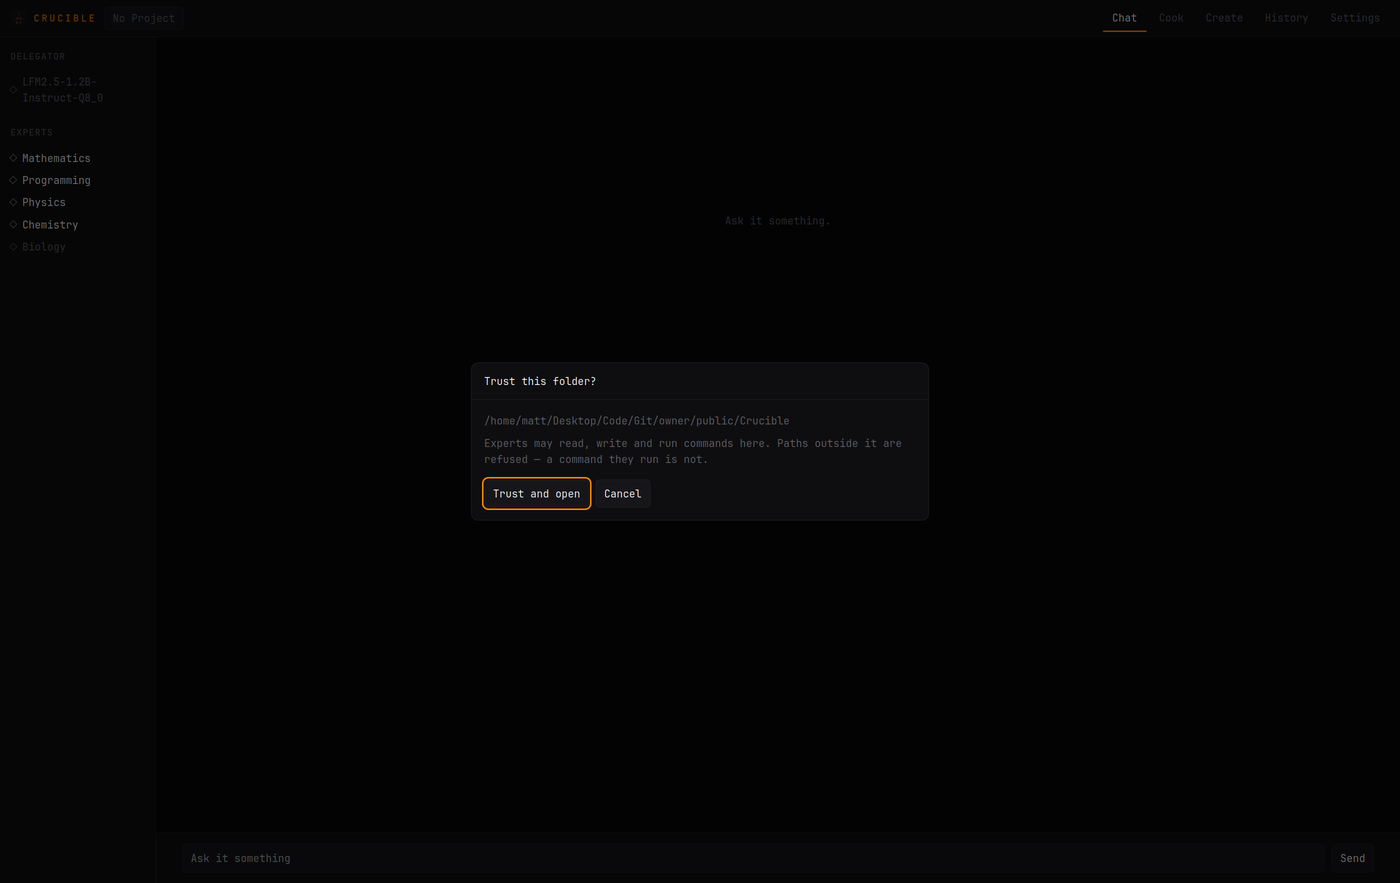
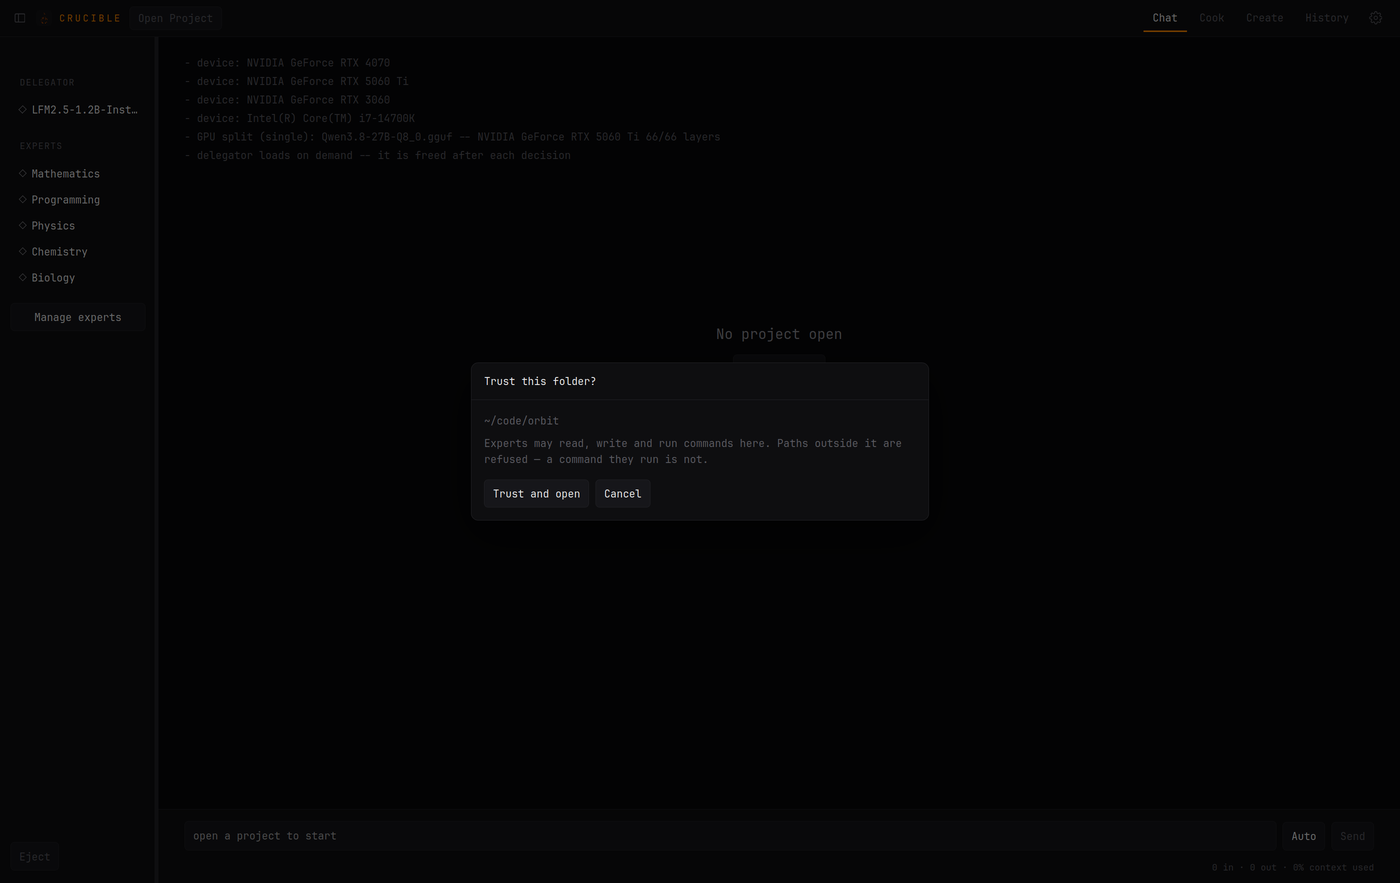
0.7.5: experts that are somewhere else, and a window that keeps drawing
The version, the pictures, and three things found while taking them.

- Version 0.7.5 in the four places it lives; the changelog's Unreleased
  section is 0.7.5's.
- Every README picture retaken from this build.
- Opening a folder that had not been trusted yet showed nothing: the question
  was put up and nothing told the page to draw it. The window now wakes the
  page after every action, as the engine already did for its own changes.
- Closing the window while a model was loading crashed on the way out. A
  redraw still in the webview's queue ran after the window, and the thing
  that queued it, were gone. It checks that the window is still there first.
- Paths that are only for reading -- the folder being trusted, where runtimes
  and the trainer live, a trained file -- are written with ~ for the home
  directory, as the top bar already wrote the project.

Claude-Session: https://claude.ai/code/session_0189RHhjLp4LDKVR4fBaP8J9

diff --git a/ui/create.js b/ui/create.js
@@ -196,7 +196,7 @@ function createDetail(r) {
       ${spec('Export', `${r.format === 'mlx' ? 'MLX' : 'GGUF'} at ${escape(r.quantization)}${
         r.export_bytes ? ', about ' + bytes(r.export_bytes) : ''}`)}
       ${fits}
-      ${r.trained_path ? spec('File', escape(r.trained_path)
+      ${r.trained_path ? spec('File', escape(r.trained_display || r.trained_path)
           + (r.trained_there ? `  ·  ${bytes(r.trained_bytes)}` : '  (not there)'),
           r.trained_there ? '' : 'bad') : ''}
       ${r.started_at ? spec('Started', ago(r.started_at)) : ''}
@@ -584,7 +584,8 @@ actions['recipe-test'] = (e) => guard(async () => {
   const r = recipesList().find((x) => x.id === e.dataset.id);
   if (!r) return;
   const seat = await call('lab.test', { id: r.id });
-  openModal({ kind: 'tester', sticky: true, id: r.id, name: r.name, file: r.trained_path,
+  openModal({ kind: 'tester', sticky: true, id: r.id, name: r.name,
+              file: r.trained_display || r.trained_path,
               seat: seat.seat, from: seat.from,
               // However the window is closed, the seat goes with it.
               onClose: () => { call('lab.test.stop').catch(() => {}); } });

diff --git a/ui/shell.js b/ui/shell.js
@@ -314,9 +314,12 @@ actions['open-project'] = async () => {
 /// here: the page learns of it from the snapshot, and so does not have to
 /// remember that it asked.
 function trustWatch() {
-  const asking = (state.snapshot.project || {}).pending_trust;
+  const project = state.snapshot.project || {};
+  const asking = project.pending_trust;
   const showing = state.modal && state.modal.kind === 'trust';
-  if (asking && !showing) openModal({ kind: 'trust', path: asking, sticky: true });
+  if (asking && !showing) {
+    openModal({ kind: 'trust', path: project.pending_display || asking, sticky: true });
+  }
   else if (!asking && showing) closeModal();
 }
 

diff --git a/src/gui/window.cpp b/src/gui/window.cpp
@@ -250,8 +250,19 @@ int App::run() {
     // everything that is not the window's own thread reaches the screen.
     std::string title = "Crucible";
     Pusher*     pushing = nullptr;
-    Pusher      pusher([this, &view, &surface, &title, &pushing] {
-        view.dispatch([this, &view, &surface, &title, &pushing] {
+    Pusher      pusher([this, &view, &surface, &title, &pushing, gate] {
+        view.dispatch([this, &view, &surface, &title, &pushing, gate] {
+            // The window may have closed since this was queued. A webview
+            // drains its queue on the way out, so this can run after the
+            // window it would draw into is gone -- and after the pusher that
+            // queued it is, too. Closing the window while a model was still
+            // loading did exactly that, and took the process down with it.
+            // The gate is closed the moment the window is, on this thread,
+            // so reading it here needs no lock.
+            if (!gate->open) {
+                return;
+            }
+
             // On the window's thread, which is the session's thread: the one
             // place the jobs a frame loop used to do can still be done.
             housekeeping();
@@ -293,14 +304,21 @@ int App::run() {
     // page's side symmetrical with Python's. The page parses it once more;
     // that is cheap and it keeps one encoder.
     view.bind("rpc",
-              [this, &view, surface, gate](const std::string& id, const std::string& arguments,
-                                           void*) {
+              [this, &view, &pusher, surface, gate](const std::string& id,
+                                                    const std::string& arguments, void*) {
                   const json request = first_argument(arguments);
                   api::Prepared call =
                       surface->prepare(request.is_string() ? request.get<std::string>()
                                                            : std::string());
                   if (!call.background) {
                       view.resolve(id, 0, json(surface->run(call)).dump());
+                      // An action may have changed something only the
+                      // session knows -- a folder now waiting to be trusted,
+                      // a seat taken away -- and nothing else would say so.
+                      // The engine wakes the page when *it* changes; this is
+                      // the same courtesy for everything that is not the
+                      // engine. Several in a row still make one redraw.
+                      pusher.wake();
                       return;
                   }
                   // A lookup: slow, and touching nothing of the session's.
@@ -385,11 +403,12 @@ int App::run() {
 
     // --- closing --------------------------------------------------------------
     //
-    // In this order. The gate first, so no worker speaks to the webview from
-    // here on; then the engine, whose thread calls the wake; and only then is
-    // the wake taken away. The pusher and the webview go as this function
-    // returns, pusher first, which is the order they were declared in
-    // reversed.
+    // In this order. The gate first, so nothing speaks to the webview from
+    // here on -- not a worker with an answer, and not a redraw still sitting
+    // in the webview's own queue; then the engine, whose thread calls the
+    // wake; and only then is the wake taken away. The pusher and the webview
+    // go as this function returns, pusher first, which is the order they were
+    // declared in reversed.
     {
         const std::lock_guard<std::mutex> lock(gate->mutex);
         gate->open = false;

diff --git a/src/api/methods_settings.cpp b/src/api/methods_settings.cpp
@@ -10,6 +10,7 @@
 #include "crucible/lab/recipe.hpp"
 #include "crucible/llm/model_catalog.hpp"
 #include "crucible/runtime/devices.hpp"
+#include "crucible/util/format.hpp"
 
 namespace crucible::api {
 namespace {
@@ -181,12 +182,13 @@ Reply about(const json&, const Scene& scene) {
                         {"command", std::string(update::update_command())},
                         {"checked_at", newer.checked_at},
                         {"checks", scene.config.ui.check_updates}}},
-        {"files", json{{"config",   paths::config_file().string()},
-                       {"data",     paths::data_dir().string()},
-                       {"models",   scene.config.resolved_models_dir().string()},
-                       {"runtimes", paths::runtimes_dir().string()},
-                       {"projects", paths::projects_dir().string()},
-                       {"log",      paths::log_file().string()}}},
+        // For reading, so each is written with ~ for the home directory.
+        {"files", json{{"config",   format::short_path(paths::config_file())},
+                       {"data",     format::short_path(paths::data_dir())},
+                       {"models",   format::short_path(scene.config.resolved_models_dir())},
+                       {"runtimes", format::short_path(paths::runtimes_dir())},
+                       {"projects", format::short_path(paths::projects_dir())},
+                       {"log",      format::short_path(paths::log_file())}}},
         {"trusted", std::move(trusted)},
     });
 }

diff --git a/src/api/methods_install.cpp b/src/api/methods_install.cpp
@@ -18,6 +18,7 @@
 #include "crucible/lab/pyenv.hpp"
 #include "crucible/runtime/backend.hpp"
 #include "crucible/runtime/registry.hpp"
+#include "crucible/util/format.hpp"
 #include "crucible/util/platform.hpp"
 
 namespace crucible::api {
@@ -114,7 +115,9 @@ Reply runtimes(const json&, const Scene&) {
         });
     }
     return good(json{{"runtimes",  std::move(listed)},
-                     {"directory", paths::runtimes_dir().string()},
+                     // For reading, not for opening: written with ~ for the
+                     // home directory, as the top bar writes the project.
+                     {"directory", format::short_path(paths::runtimes_dir())},
                      {"bytes",     total},
                      // False for a build with its backend compiled in, where
                      // there is nothing to install and the page says so.
@@ -228,7 +231,7 @@ Reply trainer(const json&, const Scene&) {
                      {"installed_at", status.installed_at},
                      {"bytes",  status.bytes},
                      {"note",   status.note},
-                     {"directory", lab::pyenv::root().string()},
+                     {"directory", format::short_path(lab::pyenv::root())},
                      {"usable_gpus",   status.usable_gpus},
                      {"unusable_gpus", status.unusable_gpus}});
 }

diff --git a/src/api/methods_lab.cpp b/src/api/methods_lab.cpp
@@ -9,6 +9,7 @@
 #include "crucible/lab/hub.hpp"
 #include "crucible/lab/recipe.hpp"
 #include "crucible/runtime/devices.hpp"
+#include "crucible/util/format.hpp"
 #include "crucible/util/platform.hpp"
 
 namespace crucible::api {
@@ -86,6 +87,10 @@ json recipe_json(const lab::Recipe& recipe, std::uint64_t memory) {
                 {"epochs", recipe.epochs}, {"context", recipe.context},
                 {"learning_rate", recipe.learning_rate},
                 {"trained_path", recipe.trained_path},
+                // The same path for reading: with ~ for the home directory.
+                {"trained_display", recipe.trained_path.empty()
+                                        ? std::string()
+                                        : format::short_path(recipe.trained_path)},
                 {"trained_there", there},
                 {"trained_bytes", trained_bytes},
                 {"stage", std::string(lab::stage_id(recipe.stage))},

diff --git a/src/api/surface.cpp b/src/api/surface.cpp
@@ -180,7 +180,8 @@ std::string Surface::snapshot() {
                  {"display", root.empty() ? std::string() : format::short_path(root)},
                  {"name", root.filename().empty() ? root.string() : root.filename().string()}};
     if (!asking.empty()) {
-        project["pending_trust"] = asking.string();
+        project["pending_trust"]   = asking.string();
+        project["pending_display"] = format::short_path(asking);
     }
     out["project"] = std::move(project);
 

diff --git a/README.md b/README.md
@@ -72,7 +72,7 @@ history stay where they are — an update replaces the program and nothing else.
 The check is one request for a public version number, it says nothing about the
 machine, and the checkbox beside it turns it off.
 
-Versions are `MAJOR.MINOR.PATCH`, tagged `v0.7.1` on GitHub, and the release a
+Versions are `MAJOR.MINOR.PATCH`, tagged `v0.7.5` on GitHub, and the release a
 tag builds carries the installers for all three platforms. What changed in each
 is in [CHANGELOG.md](CHANGELOG.md).
 

diff --git a/CHANGELOG.md b/CHANGELOG.md
@@ -6,7 +6,7 @@ them to the release. Running Crucible checks for a newer tag once a day and says
 so in **Settings → About**; updating is the same one-line installer that put it
 there, and it keeps your config, models and history.
 
-## Unreleased
+## 0.7.5 — 2026-10-04
 
 **An expert can be a model that is somewhere else.** A seat is a name, a
 description and a model, and the model no longer has to be a file: it can be
